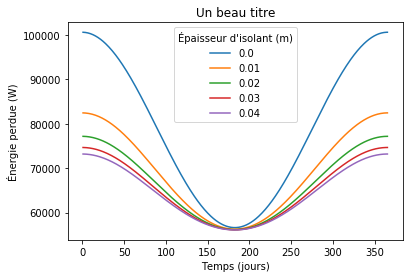
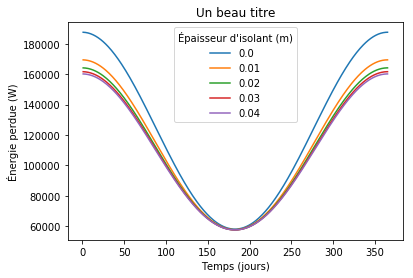
clean code chill chillos

diff --git a/questionOne.py b/questionOne.py
@@ -16,7 +16,7 @@ class qOut:
 
         self.waterTemperature = 37 + 273    # Kelvin
         self.waterifg = 2414 * 1000    # J/kg @ 37°C
-        self.waterh = 1    # TROUVER LE H DE L'EAU DANS LE BASSIN
+        # self.waterh = 1    # TROUVER LE H DE L'EAU DANS LE BASSIN
 
         self.airTemperature = self.getAirTemperature()
         self.airCp = 1.007 * 1000    # J/kgK @ 25°C
@@ -142,9 +142,8 @@ class qOut:
         return self.mDot * self.coldWaterCp * (self.waterTemperature - self.coldWaterTemprature)
 
     def getqSurfaces(self):
-        equivalentR = ( 0* (self.getTopRConvectionWithAir())**-1
-                        + (self.getSidesRConvectionWithWater()
-                           + self.getSidesRConductionInGlass()
+        equivalentR = ( (self.getTopRConvectionWithAir())**-1
+                        + (self.getSidesRConductionInGlass()
                            + self.getSidesRConductionInInsulating()
                            + self.getSidesRConvectionWithAir() )**-1 )**-1
         return (self.waterTemperature - self.airTemperature)/equivalentR
@@ -155,8 +154,8 @@ class qOut:
     def getTopRConvectionWithAir(self):
         return 1 / (self.airTopH * self.poolTopSurface)
 
-    def getSidesRConvectionWithWater(self):
-        return 0 * 1 / (self.waterh * self.poolSidesSurface)
+    # def getSidesRConvectionWithWater(self):
+    #     return 0 * 1 / (self.waterh * self.poolSidesSurface)
 
     def getSidesRConductionInGlass(self):
         return self.glassThickness / (self.glassk * self.poolSidesSurface)
@@ -166,28 +165,6 @@ class qOut:
 
     def getSidesRConvectionWithAir(self):
         return 1 / (self.airSidesH * self.poolSidesSurface)
-
-
-# a = qOut()
-# print(a.qColdWater)
-# print(a.__dict__)
-# values = []
-# print(a.insulatingThickness)
-# for i in range(5):
-#     a.updateTime(timeStep * (i + 1))
-#     print(a.qColdWater, a.qEvap, a.qSurfaces)
-#     values.append(a.qTot)
-# print(values)
-#
-# a = qOut()
-# a.updateThickness(0.005)
-# print(a.insulatingThickness)
-# values =  []
-# for i in range(5):
-#     a.updateTime(timeStep * (i + 1))
-#     values.append(a.airK)
-# print(values)
-
 
 
 class simulationInTime:
@@ -208,7 +185,6 @@ class simulationInTime:
 
     def generateTimeValues(self):
         return ([(step + 1) * self.timeStep for step in range(int(self.numberOfDays / self.timeStep))])
-
 
     ## TO GRAPH Q_TOT FOR DIFFERENT INSULATING THICKNESSES
     
@@ -268,7 +244,32 @@ class simulationInTime:
         plt.ylabel('Énergie perdue (W)')
         plt.title('Un beau titre')
         plt.savefig('Q1-qOutOverTime_3lines', bbox_inches='tight')
+        
+        
+        
+        
+    def generateValues(self, thickness = 0):
+        q = qOut()
+        q.updateThickness(thickness)
+        airTopK = list()
+        for time in self.timeValues:
+            q.updateTime(time)
+            print(q.__dict__)
+            airTopK.append(q.airTopK)
+        return airTopK
+
+    def plot(self, thickness):
+        set = self.generateValues(thickness=thickness)
+
+        plt.figure()
+        plt.plot(self.timeValues,set,label='q_')
+
+        plt.legend(title="Isolant de %s m d'épaisseur" % thickness)
+        plt.xlabel('Temps (jours)')
+        plt.ylabel('Énergie perdue (W)')
+        plt.title('Un beau titre')
+        plt.savefig('Q1-qOutOverTime_whatever', bbox_inches='tight')
 
 a = simulationInTime()
 a.plotQtot()
-a.plot3lines(0)
+a.plot3lines(0.01)
